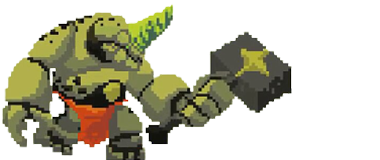
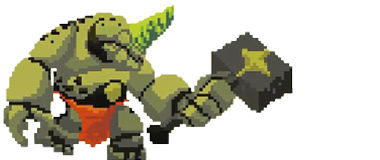
fixed animations, fixed MONOLITH spawn

diff --git a/Enemy.py b/Enemy.py
@@ -360,10 +360,10 @@ class EnemyTroll(Entity):
         super().__init__(start_point, player_pos, player)
         self.last_anime = None
         self.attack_counter = 0
-        self.stay_list = [rf'EnemyImg\Fantasy Troll\Stand\stand{i}.png' for i in range(7)]
-        self.walk_list = [rf'EnemyImg\Fantasy Troll\Walk\walk{i}.png' for i in range(8)]
-        self.death_list = [rf'EnemyImg\Fantasy Troll\Death\death{i}.png' for i in range(10)]
-        self.attack_list_1 = [rf'EnemyImg\Fantasy Troll\Attack\attack{i}.png' for i in range(21)]
+        self.stay_list = [rf'EnemyImg\Fantasy Troll\Stand\stand{i}.png' for i in range(7)][::-1]
+        self.walk_list = [rf'EnemyImg\Fantasy Troll\Walk\walk{i}.png' for i in range(8)][::-1]
+        self.death_list = [rf'EnemyImg\Fantasy Troll\Death\death{i}.png' for i in range(10)][::-1]
+        self.attack_list_1 = [rf'EnemyImg\Fantasy Troll\Attack\attack{i}.png' for i in range(21)][::-1]
         self.death_counter = 0
         self.anime = {'stay': [True, deque([pygame.transform.scale
                                             (pygame.image.load
@@ -389,7 +389,7 @@ class EnemyTroll(Entity):
                       }
         self.image = self.anime['stay'][1][0]
         self.mask = pygame.mask.from_surface(self.image)
-        self.damage = 5
+        self.damage = 3
         self.cost = 20
 
     def movement(self, map_profile):
@@ -484,7 +484,11 @@ class EnemyTroll(Entity):
 
         if self.health <= 0:
             self.anime['death'][0] = True
-            if self.anime['death'][2] != 20:
+            if self.Reversed:
+                derivative_x = 60
+            else:
+                derivative_x = -60
+            if self.anime['death'][2] != 6:
                 self.anime['death'][2] += 1
             else:
                 self.death_counter += 1
@@ -503,7 +507,7 @@ class EnemyTroll(Entity):
                 derivative_x = 0
             else:
                 derivative_x = 0
-            derivative_y = 90
+            derivative_y = 60
             self.anime['attack'][0] = True
 
             if self.anime['attack'][2] != 4:

diff --git a/Generator.py b/Generator.py
@@ -105,7 +105,8 @@ class MapGenerator:
                 while True:
                     self.monolith = [randint(0, 49), randint(0, 49)]
                     if self.map_profile[self.monolith[0]][self.monolith[1]] == '1' \
-                            and self.monolith != self.start_point:
+                            and self.monolith != self.start_point and \
+                            self.start_point not in self.neighbours(self.monolith):
                         break
                 print('monolith =', self.monolith)
                 self.map_profile[self.monolith[0]][self.monolith[1]] = '8'
@@ -118,6 +119,16 @@ class MapGenerator:
     def get_map(self):
         """:returns Map info"""
         return self.map_profile
+
+    @staticmethod
+    def neighbours(point):
+        """Returns coordinates of neighbours of current point"""
+        result = []
+        for k in range(9):
+            dot = [point[0] - 1 + k % 3, point[1] - 1 + k // 3]
+            result.append(dot)
+        result = [p for p in result if -1 < p[0] < 50 and -1 < p[1] < 50]
+        return result
 
     def get_monolith(self):
         """:returns Monolith position"""
